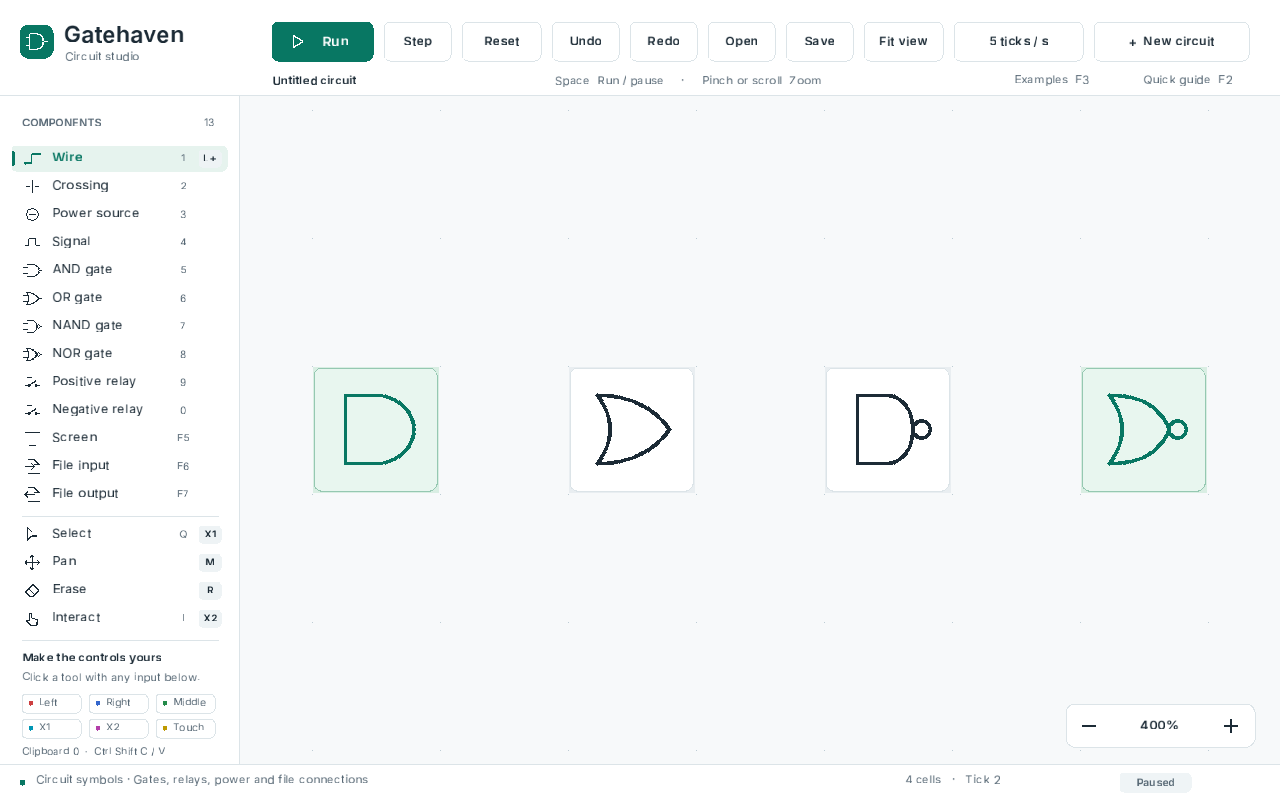
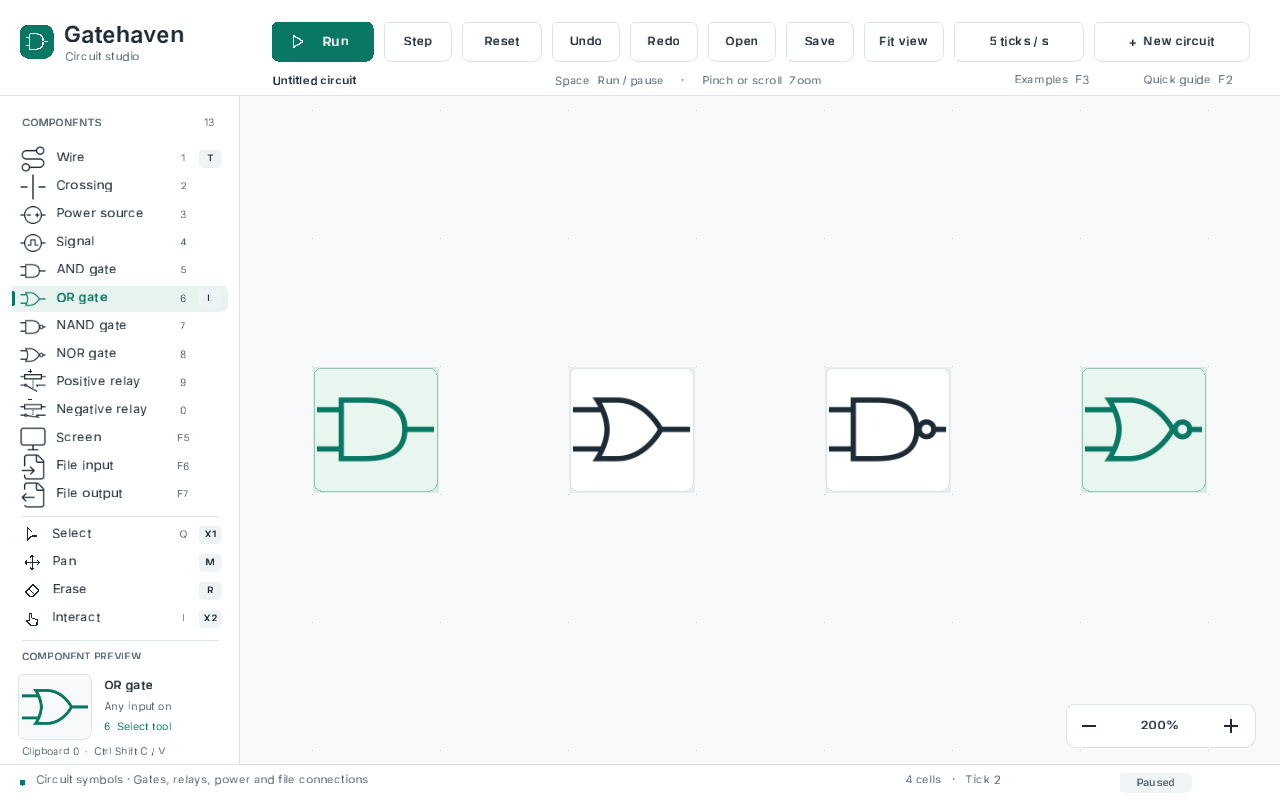
docs(desktop): show the component artwork and larger default workspace

diff --git a/docs/release-notes.md b/docs/release-notes.md
@@ -65,3 +65,11 @@ symbols instead of text tiles. Gate orientation follows nearby connections,
 relay contacts reflect conductivity, and powered screens light up. Automated
 SDL workflows cover pinch, resized-window coordinate conversion, wheel direction,
 keyboard repeat, button hit testing, and cancellation when focus changes.
+
+Component artwork now uses embedded SVG-derived images for gates, sources,
+relays, screens, and file ports, with consistent line weights, antialiasing, and
+filtered levels for small icons and Retina displays. Sidebar icons grow from
+18 to 26 pixels and a large component preview explains the selected or hovered
+part. New circuits start with 64-pixel cells, twice the previous default, and
+symbols use more of each tile. All artwork works offline; package notices retain
+the source image licenses.

diff --git a/docs/manual.md b/docs/manual.md
@@ -10,6 +10,10 @@ opens the circuit lessons; **Quick guide** groups the main shortcuts by task.
 The editor uses a light workspace, smooth proportional text, component icons,
 and an outlined keyboard focus. The minimum window is 1120 × 700 to keep the
 controls readable; the default is 1280 × 800. Resizing preserves the canvas ratio.
+Hover over a component or canvas cell to see its large image and a short
+description at the bottom of the sidebar. New circuits start with 64-pixel cells;
+the zoom percentage resets to this larger size. Fit view still shows the whole
+circuit, which can reduce the size of cells in large examples.
 
 ## Draw and navigate
 

diff --git a/README.md b/README.md
@@ -9,7 +9,7 @@ logic gates, and step through a circuit to see how its signals change.
 
 ![Gatehaven desktop editor with circuit symbols and zoom controls](docs/images/desktop-prototype.png)
 
-[See the gate symbols up close](docs/images/circuit-symbols.png).
+[View all 13 components](docs/images/component-gallery.png) · [Gate symbols up close](docs/images/circuit-symbols.png).
 
 **Status: 0.5 development preview, not a finished release.** Windows, macOS,
 and Linux are the intended platforms. See [verification notes](docs/verification.md)
